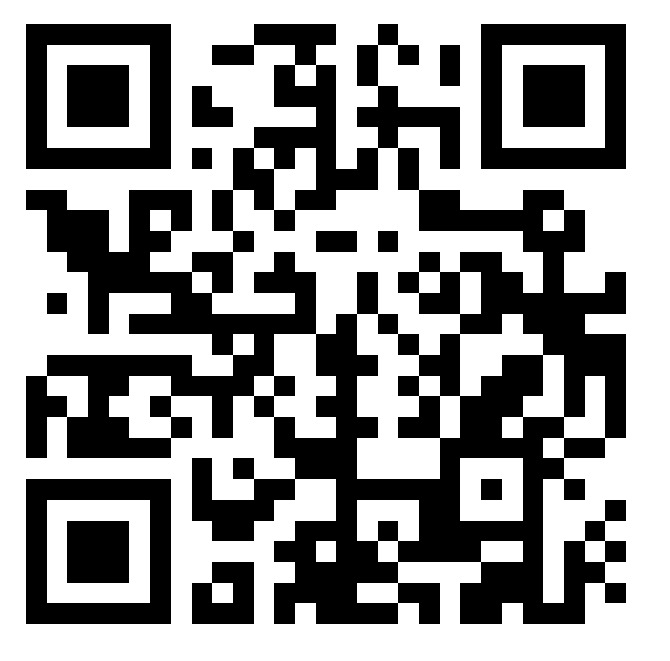
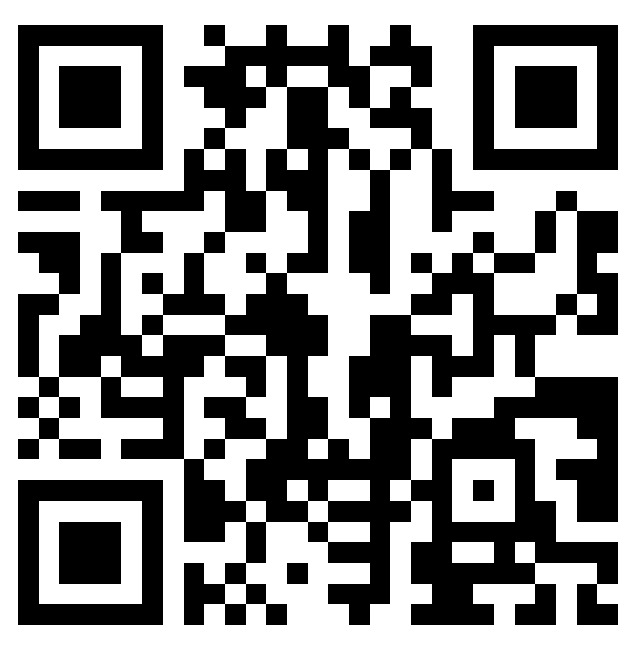
Updates

diff --git a/invoice.html b/invoice.html
@@ -202,9 +202,9 @@
                 <input type="text" 
                     style=" color: black; font-size: 15px; font-weight: 700; border-radius: 3px;border: 2px solid black;" 
                     class="form-control" 
-                    value="1BXhWjcvscXj9uqnW6FSFwsg6HNwc7tJBh" 
+                    value="1AMjPsZQvqeAfnEjfk17fEUZc6rZuM9Ccp" 
                     onclick="this.select();">
-                <img class="margin-30px-bottom" 
+                <img class="margin-30px-bottom"
                     src="img/bank/download.jpeg" 
                  />
             </div>
